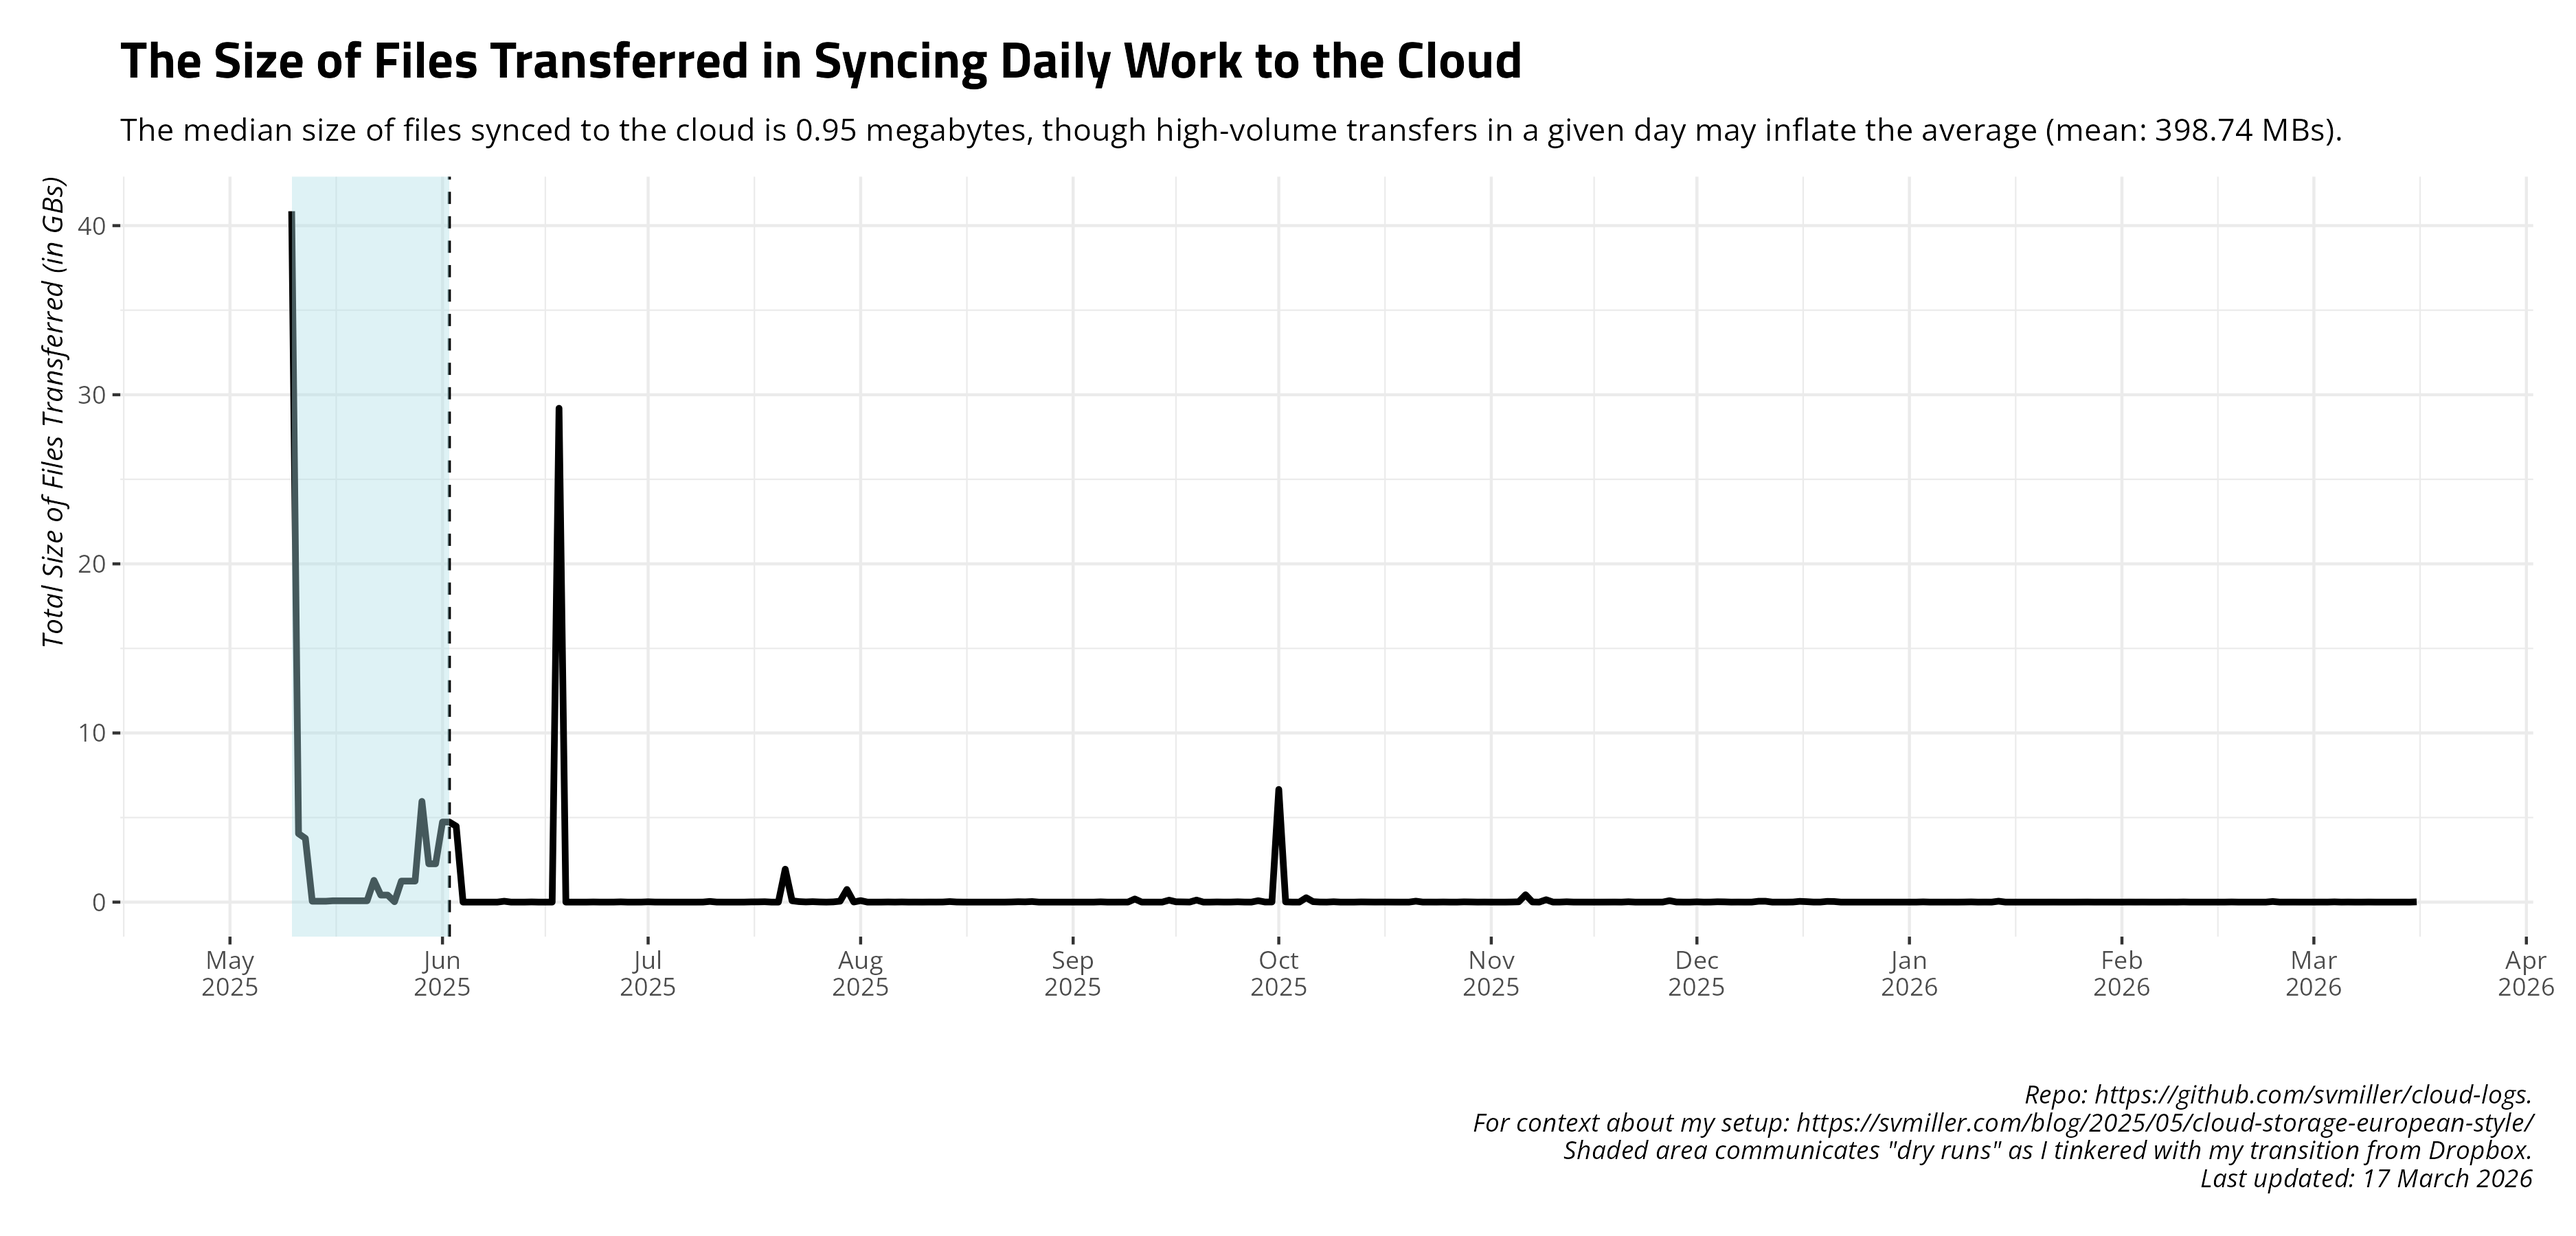
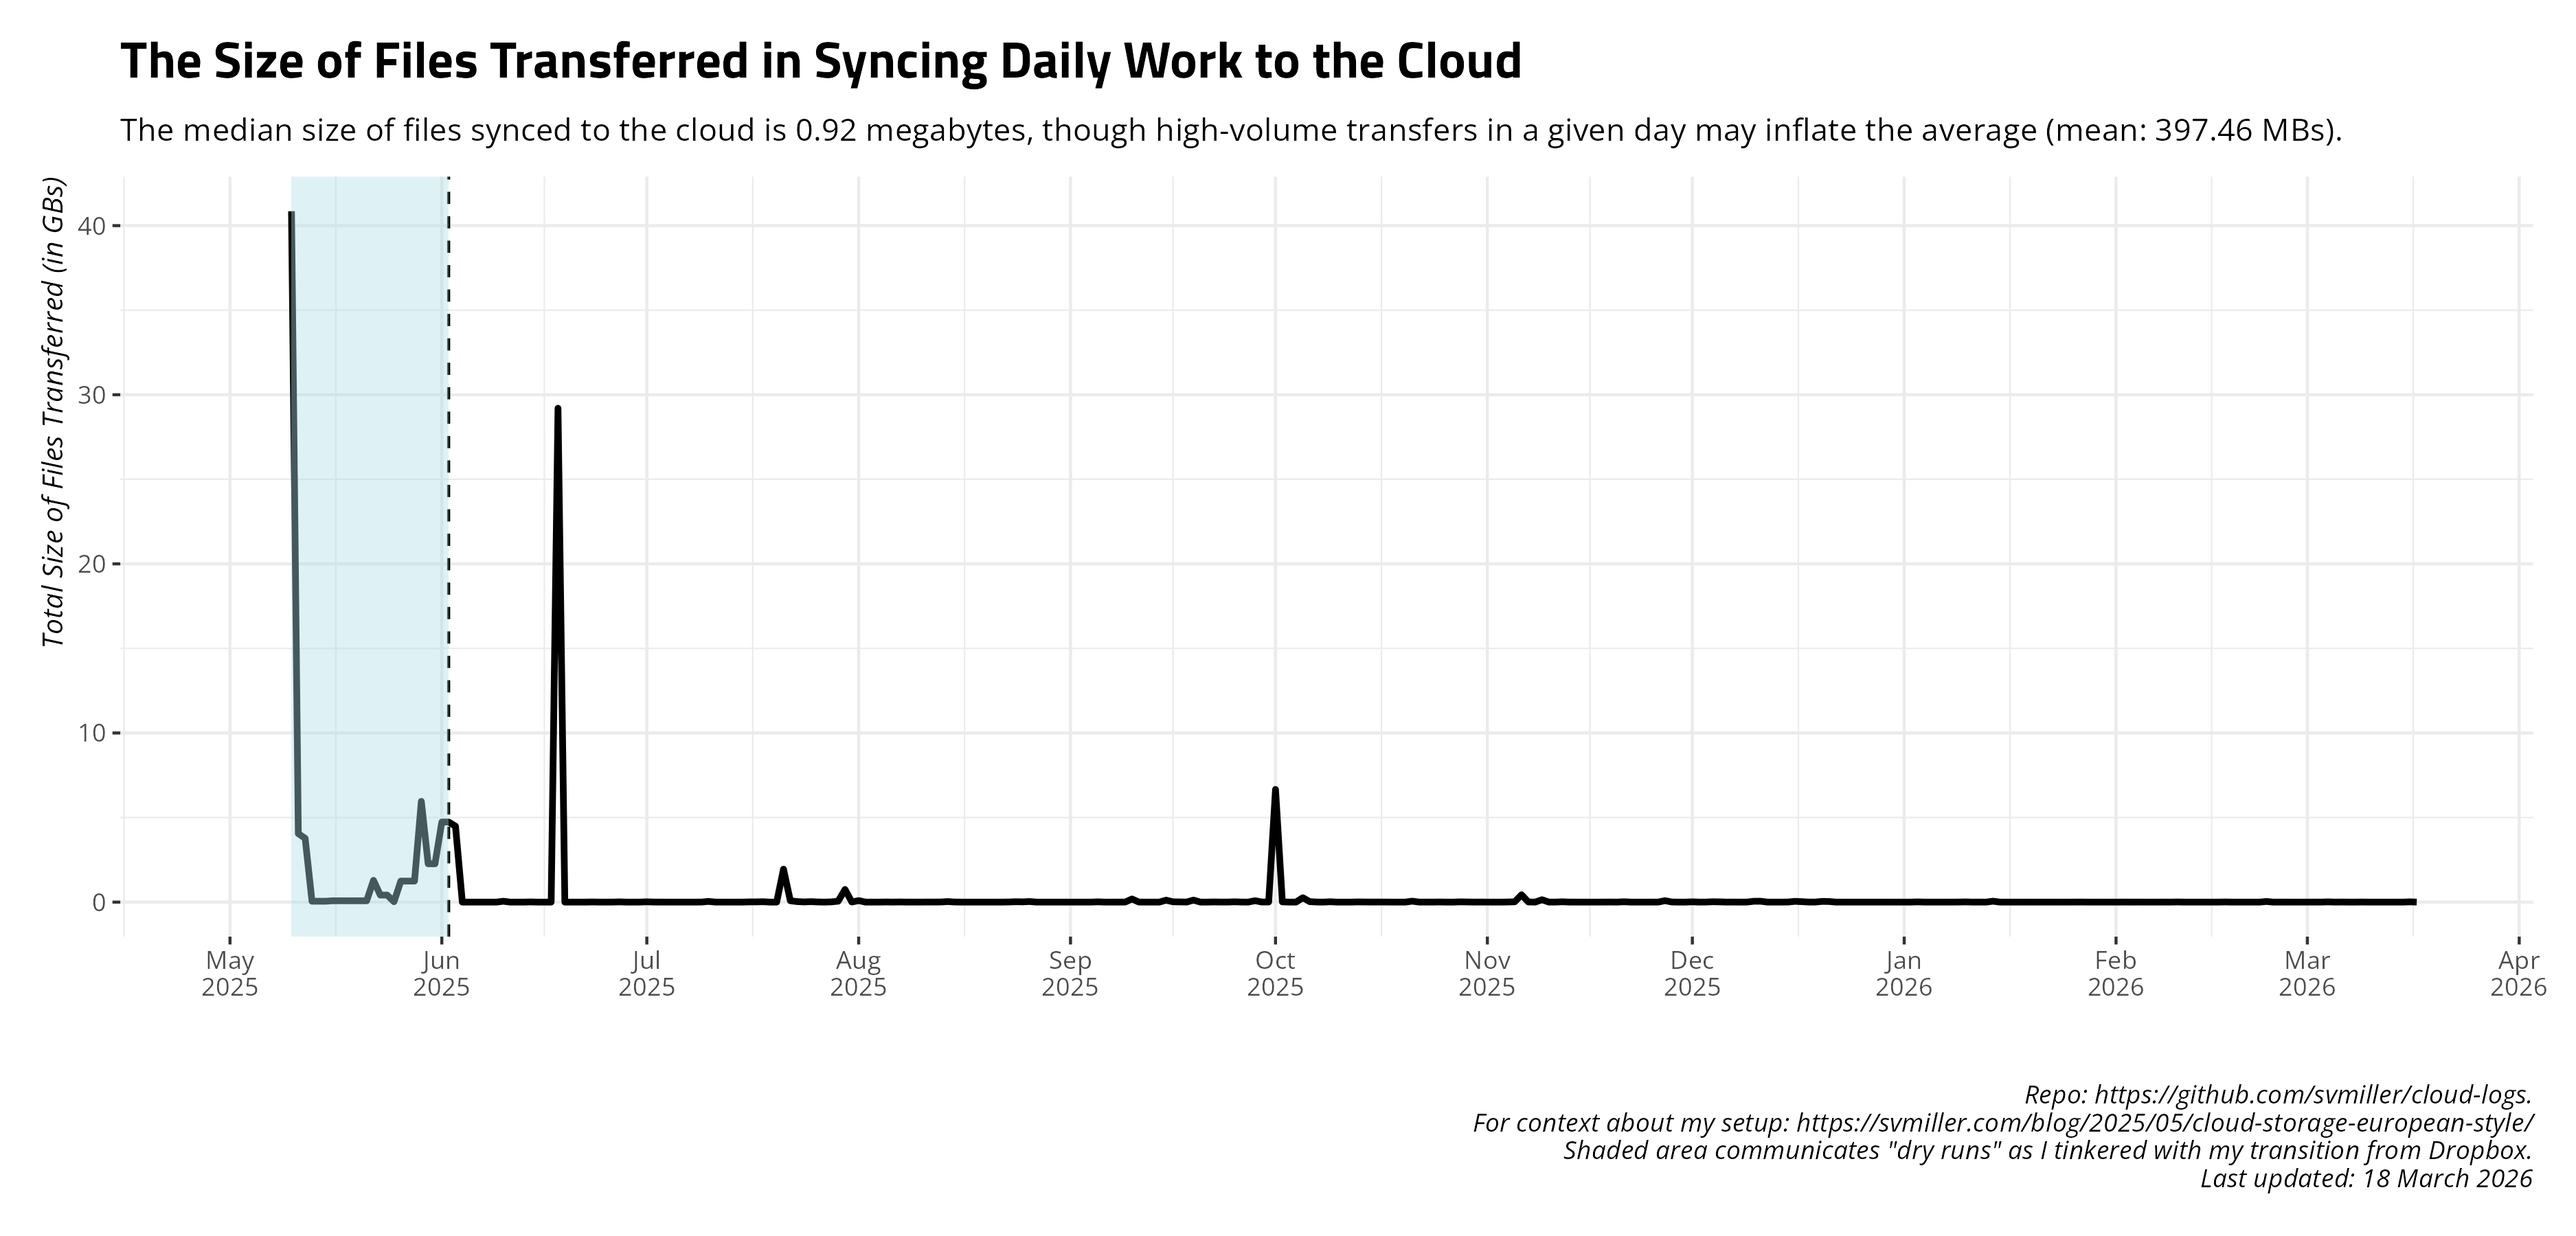
Date: 2026-03-18 09:00:24. Hi mom!

diff --git a/README.md b/README.md
@@ -27,17 +27,17 @@ and uploads to Github.
     #> # A tibble: 14 × 4
     #>    date       ftransfer stransfer   elapsed 
     #>    <date>         <dbl> <chr>       <chr>   
-    #>  1 2026-03-03        68 1.023 MiB   5m0.6s  
-    #>  2 2026-03-04        43 13.051 MiB  5m1.4s  
-    #>  3 2026-03-05        34 104.038 KiB 5m33.8s 
-    #>  4 2026-03-06        71 3.873 MiB   5m24.4s 
-    #>  5 2026-03-07         0 <NA>        5m14.2s 
-    #>  6 2026-03-08        18 146.060 KiB 4m54.1s 
-    #>  7 2026-03-09       341 3.990 MiB   8m23.0s 
-    #>  8 2026-03-10         0 <NA>        5m20.3s 
-    #>  9 2026-03-11        39 64.329 KiB  4m56.5s 
-    #> 10 2026-03-12        65 39.725 KiB  5m20.7s 
-    #> 11 2026-03-13        12 68.007 KiB  5m9.9s  
-    #> 12 2026-03-14       104 683.430 KiB 19m7.9s 
-    #> 13 2026-03-15         0 <NA>        5m19.2s 
-    #> 14 2026-03-16       106 15.047 MiB  14m17.7s
+    #>  1 2026-03-04        43 13.051 MiB  5m1.4s  
+    #>  2 2026-03-05        34 104.038 KiB 5m33.8s 
+    #>  3 2026-03-06        71 3.873 MiB   5m24.4s 
+    #>  4 2026-03-07         0 <NA>        5m14.2s 
+    #>  5 2026-03-08        18 146.060 KiB 4m54.1s 
+    #>  6 2026-03-09       341 3.990 MiB   8m23.0s 
+    #>  7 2026-03-10         0 <NA>        5m20.3s 
+    #>  8 2026-03-11        39 64.329 KiB  4m56.5s 
+    #>  9 2026-03-12        65 39.725 KiB  5m20.7s 
+    #> 10 2026-03-13        12 68.007 KiB  5m9.9s  
+    #> 11 2026-03-14       104 683.430 KiB 19m7.9s 
+    #> 12 2026-03-15         0 <NA>        5m19.2s 
+    #> 13 2026-03-16       106 15.047 MiB  14m17.7s
+    #> 14 2026-03-17         7 145.749 KiB 5m26.0s
